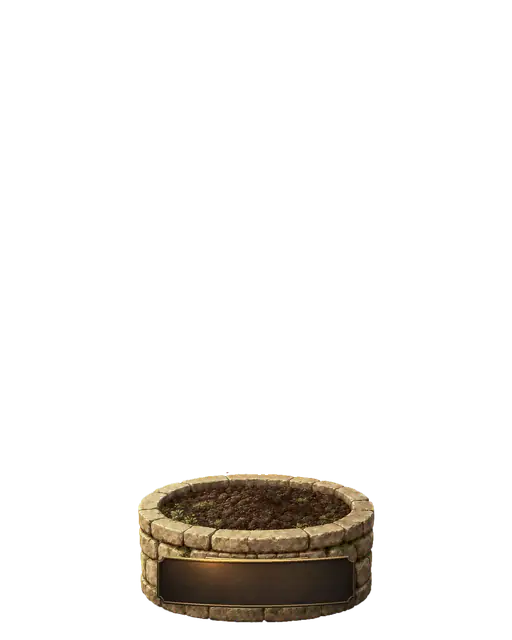
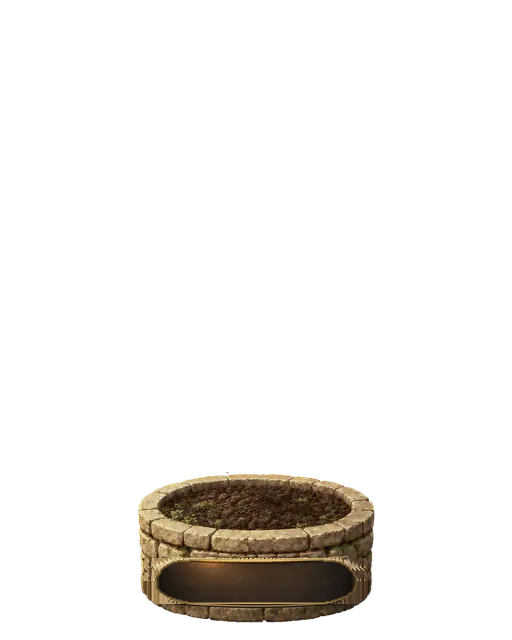
Wrap the garden plaque ribbons onto the round pot.
The painted bands were flat rectangles with corners on the pot's edge. Each ribbon now ends in a rounded cap set in from the silhouette, so the brown pot shows at the corners. The names stay straight on the front of the ribbon.

Changed region(s): [[0.625, 0.875, 0.7188, 0.9688], [0.2812, 0.875, 0.375, 0.9688]]

diff --git a/hearts-prototype/tests/unit/garden-plaque.test.ts b/hearts-prototype/tests/unit/garden-plaque.test.ts
@@ -1,6 +1,8 @@
 import assert from 'node:assert/strict'
 import { readFileSync } from 'node:fs'
 import { test } from 'node:test'
+import { fileURLToPath } from 'node:url'
+import sharp from 'sharp'
 import { GARDEN_AREAS } from '../../src/lib/garden-areas'
 
 test('garden plaques use the learner sans and keep every lane name', () => {
@@ -11,6 +13,27 @@ test('garden plaques use the learner sans and keep every lane name', () => {
   assert.equal(rule.includes('text-overflow'), false)
   assert.match(rule, /max-width:\s*36%/)
   assert.match(rule, /white-space:\s*nowrap/)
-  assert.match(rule, /left:\s*50\.1%/)
+  assert.match(rule, /left:\s*50%;/)
   assert.deepEqual(GARDEN_AREAS.map((area) => area.plaque), ['QUR’AN', 'HADITH', 'CHARACTER', 'SOCIETY', 'SPIRITUALITY'])
+})
+
+test('garden plaque ribbons tuck their corners into the round pot', async () => {
+  const lanes = ['quran', 'hadith', 'character', 'society', 'spirituality']
+  const lum = (r, g, b) => 0.2126 * r + 0.7152 * g + 0.0722 * b
+  for (const lane of lanes) {
+    for (const stage of [0, 4]) {
+      const file = fileURLToPath(new URL(`../../public/garden/trees/${lane}/stage-${stage}-planter.webp`, import.meta.url))
+      const { data, info } = await sharp(file)
+        .ensureAlpha()
+        .raw()
+        .toBuffer({ resolveWithObject: true })
+      const L = (x, y) => {
+        const i = (y * info.width + x) * 4
+        return lum(data[i], data[i + 1], data[i + 2])
+      }
+      assert.ok(L(160, 562) > 140, `${lane} stage ${stage} top corner is pot`)
+      assert.ok(L(165, 598) > 120, `${lane} stage ${stage} bottom corner is pot`)
+      assert.ok(L(256, 582) < 80, `${lane} stage ${stage} face stays dark`)
+    }
+  }
 })

diff --git a/hearts-prototype/src/lib/garden-art.ts b/hearts-prototype/src/lib/garden-art.ts
@@ -5,7 +5,8 @@ import type { GardenAreaId, GrowthStage } from './garden-areas'
  *
  * Every tree file is a 512×640 canvas. The planter's bottom-centre anchor is
  * (256, 622), the same point in every stage, so one placement fits all five.
- * Plaques in the art are blank. Names are drawn on the planter, which never moves.
+ * Plaques in the art are blank ribbons wrapped on the round pot. Names sit on the
+ * front of the ribbon. The planter never moves.
  *
  * The canopy is a second layer on that same canvas: trunk, root flare and crown.
  * It rotates about the trunk centre on the soil line. The canopy has no pixels

diff --git a/hearts-prototype/src/app/(frontend)/garden.css b/hearts-prototype/src/app/(frontend)/garden.css
@@ -114,10 +114,8 @@
 
 .plaque-name {
   position: absolute;
-  /* Optical centre of the dark plaque face on the 512×640 planter.
-     The face runs from the inner gold edge (~157px) to the start of the dim right rim (~356px), so its centre is 256.5px (50.1%).
-     51.2% included that rim and sat the ink about 4px right, leaving more empty band on the left. */
-  left: 50.1%;
+  /* Front of the wrapped ribbon. The ribbon is centred on the pot, at 256px of the 512 canvas. */
+  left: 50%;
   top: 91.25%;
   transform: translate(-50%, -50%);
   z-index: 2;
